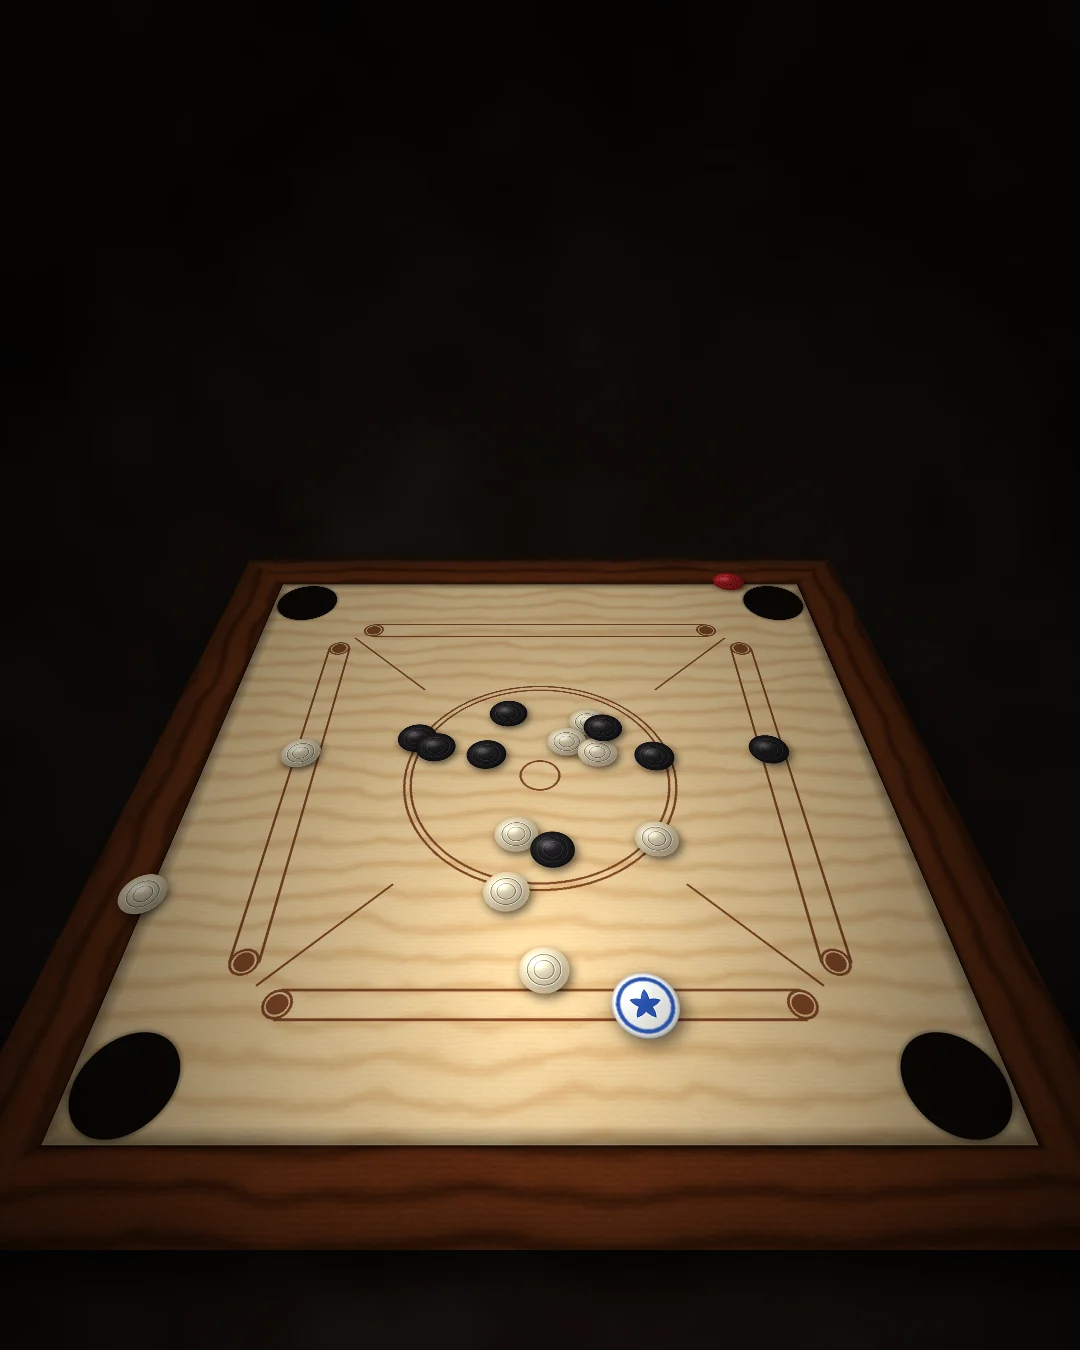
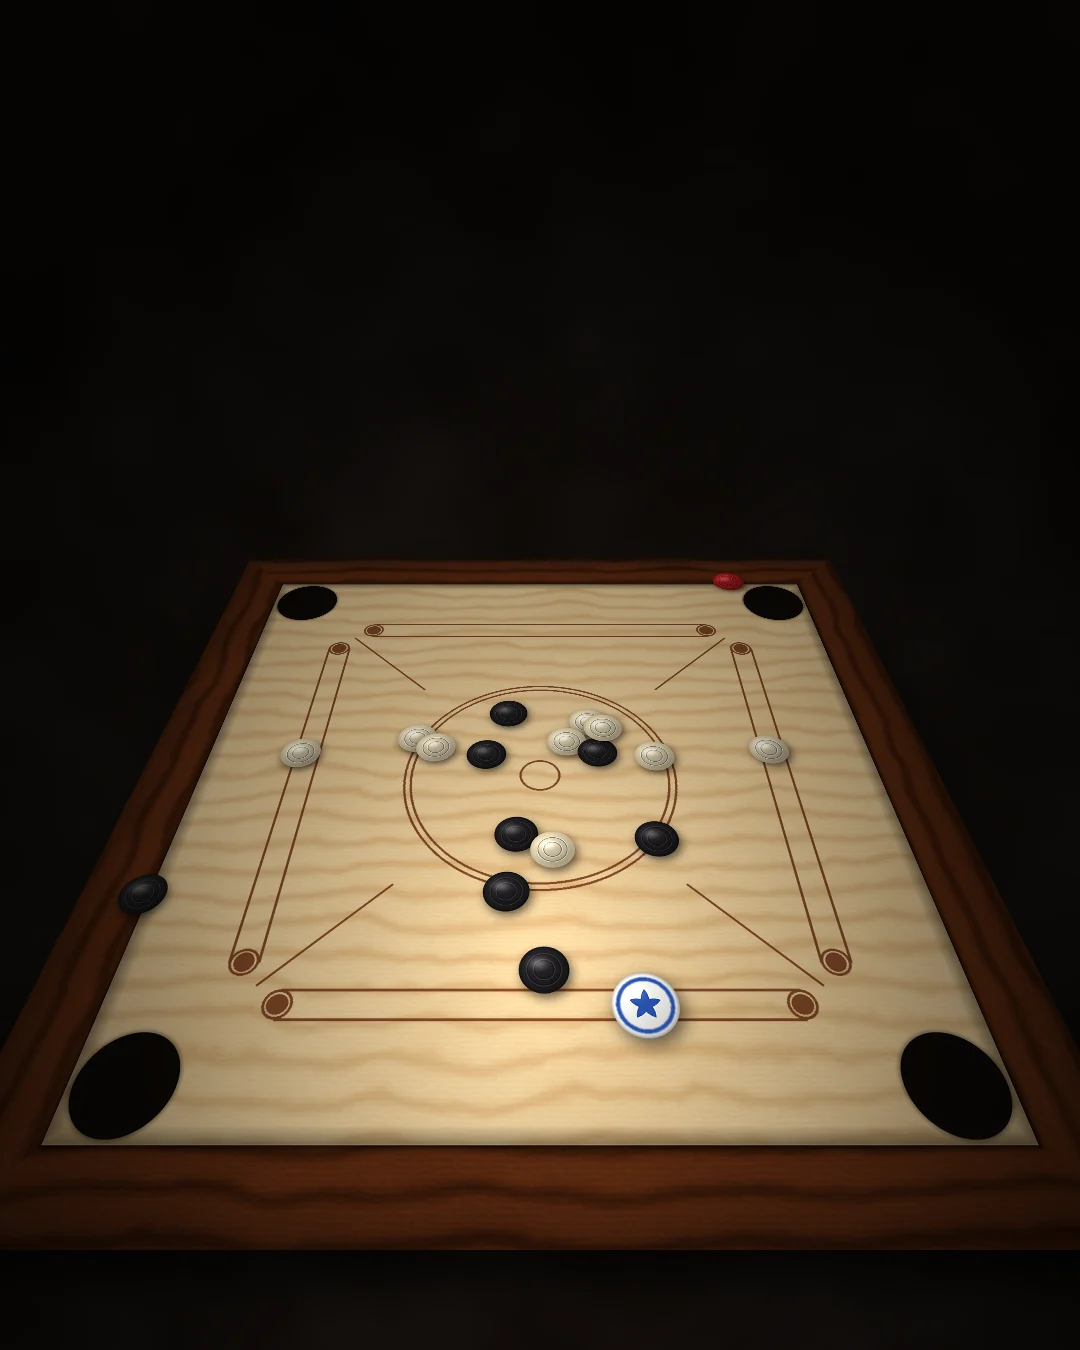
Susunan buah: putih di penjuru; KSAS kelab lalai
Claude-Session: https://claude.ai/code/session_014kxCs26VKZHgH5LLPL8FAn

diff --git a/app.js b/app.js
@@ -527,7 +527,7 @@ function settingsFormAll(t, locked) {
     <div class="section-title" style="margin-top:0">Maklumat</div>
     <label>Nama pertandingan</label><input name="name" value="${esc(t.name)}" required>
     <div class="grid2">
-      <div><label>Kelab / Penganjur</label><select name="clubId">${opt({ kskpkpjb: 'KSKPKPJB', ksasall: 'KSAS', sendiri: '🙋 Persendirian (main santai)', lain: 'Lain-lain', '': '— Tiada —' }, clubOf(t).id)}</select></div>
+      <div><label>Kelab / Penganjur</label><select name="clubId">${opt({ ksasall: 'KSAS', kskpkpjb: 'KSKPKPJB', sendiri: '🙋 Persendirian (main santai)', lain: 'Lain-lain', '': '— Tiada —' }, clubOf(t).id)}</select></div>
       <div><label>Tarikh</label><input name="date" type="date" value="${esc(t.date)}"></div>
       <div><label>Masa mula</label><input name="startTime" type="time" value="${esc(t.startTime)}"></div>
       <div><label>Minit setiap sesi</label><input name="sessionMin" type="number" min="10" max="90" step="5" value="${t.sessionMin}"></div>
@@ -654,7 +654,7 @@ async function readLogo(form, t) {
 function viewNew() {
   const t = E.newTournament();
   if (cloud.state.user && !cloud.state.user.anon) t.createdBy = { name: cloud.state.user.name || (cloud.state.user.email || '').split('@')[0], at: Date.now() };
-  t.clubId = ls.get('carrom:lastClub') ?? 'kskpkpjb';
+  t.clubId = ls.get('carrom:lastClub') ?? 'ksasall';
   t.waGroup = (CLUBS[t.clubId] || {}).waGroup || '';
   $app.innerHTML = `${section('Pertandingan', 'Cipta baharu')}
     <p class="notice small">${cloud.isAdmin() ? '☁ Pertandingan ini akan disimpan di awan dan boleh dilihat semua orang.' : '📱 Anda belum log masuk sebagai admin, jadi pertandingan ini disimpan dalam peranti ini sahaja (sesuai untuk ujian). Ia boleh dipindah ke awan kemudian.'}</p>

diff --git a/carrom-art.js b/carrom-art.js
@@ -43,7 +43,7 @@ export function striker(c, x, y, r, accent = '#2f5bb7', o = {}) {
 export function rack(c, cx, cy, r, o = {}) {
   const pts = [[cx, cy, 'queen']];
   for (let i = 0; i < 6; i++) { const a = i * Math.PI / 3 + Math.PI / 6; pts.push([cx + Math.cos(a) * r * 2.02, cy + Math.sin(a) * r * 2.02, i % 2 ? 'black' : 'white']); }
-  if (o.full !== false) for (let i = 0; i < 12; i++) { const a = i * Math.PI / 6 + Math.PI / 6, d = i % 2 ? r * 3.5 : r * 4.04; pts.push([cx + Math.cos(a) * d, cy + Math.sin(a) * d, i % 2 ? 'white' : 'black']); }
+  if (o.full !== false) for (let i = 0; i < 12; i++) { const a = i * Math.PI / 6 + Math.PI / 6, d = i % 2 ? r * 3.5 : r * 4.04; pts.push([cx + Math.cos(a) * d, cy + Math.sin(a) * d, i % 2 ? 'black' : 'white']); }
   const k = o.k == null ? 1 : o.k;   // pecahan (animasi)
   pts.forEach(([x, y, kind], i) => { if (i < Math.ceil(pts.length * k)) coin(c, x, y, r, kind, { shadow: o.shadow }); });
   return pts;

diff --git a/sw.js b/sw.js
@@ -1,6 +1,6 @@
 // Service worker: simpan fail app supaya boleh dibuka walaupun internet lemah.
 // Tukar VERSION setiap kali fail app berubah supaya pengguna dapat versi baharu.
-const VERSION = 'c1.1.0';
+const VERSION = 'c1.1.1';
 const CACHE = `carrom-${VERSION}`;
 const FILES = ['./', 'index.html', 'style.css', 'app.js', 'engine.js', 'store.js',
   'draw-anim.js', 'cloud.js', 'live.js', 'draw-video.js', 'recap-video.js', 'sound.js', './vendor/mp4-muxer.js', 'poster.js', 'reg-poster.js', 'poster-kit.js', './vendor/qrcode.js', 'push.js', 'carrom-art.js', 'carrom-poster.js', 'img/board-top.webp', 'img/board-angle.webp', 'img/coins-close.webp', 'push-config.js', 'firebase-config.js', 'manifest.webmanifest', 'logos/kskpkpjb.webp', 'logos/ksas.webp', 'icons/cr-192.png', 'icons/cr-512.png', 'icons/cr-apple-180.png'];
